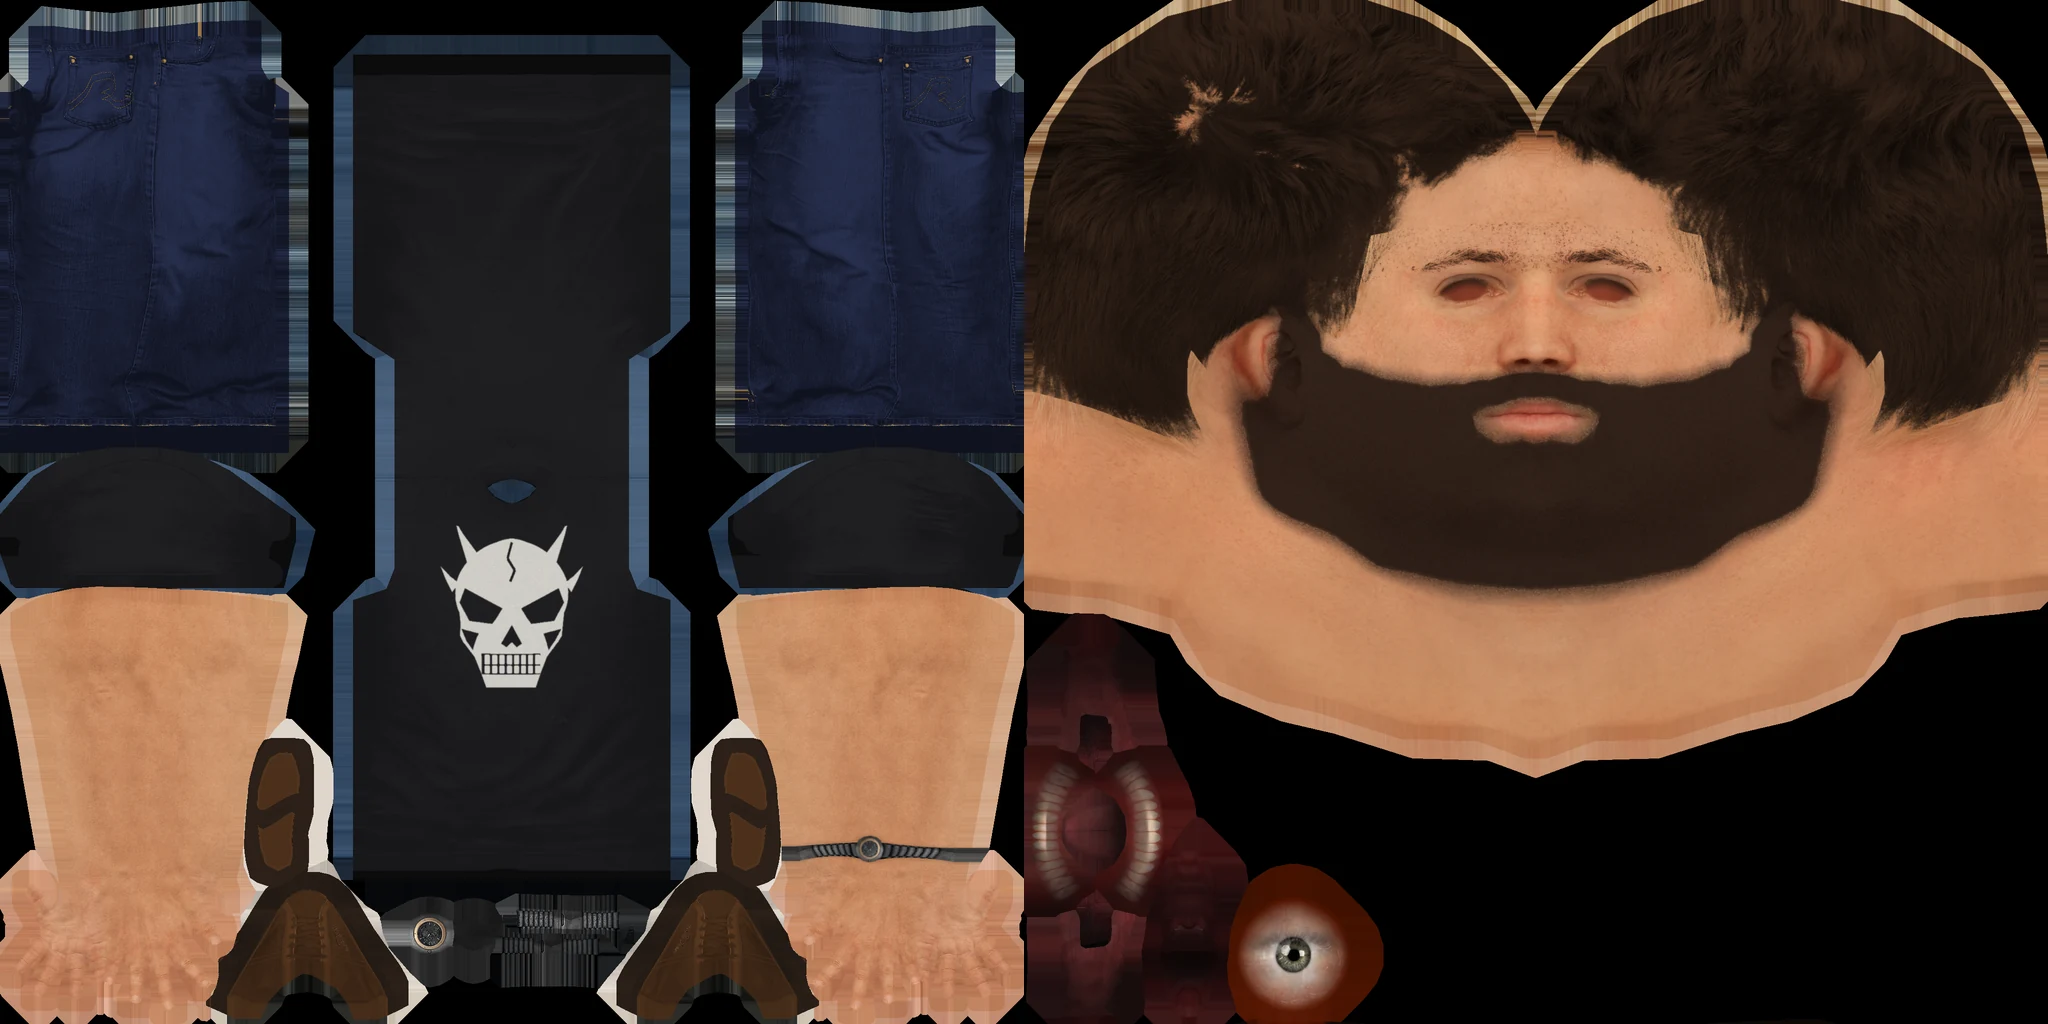
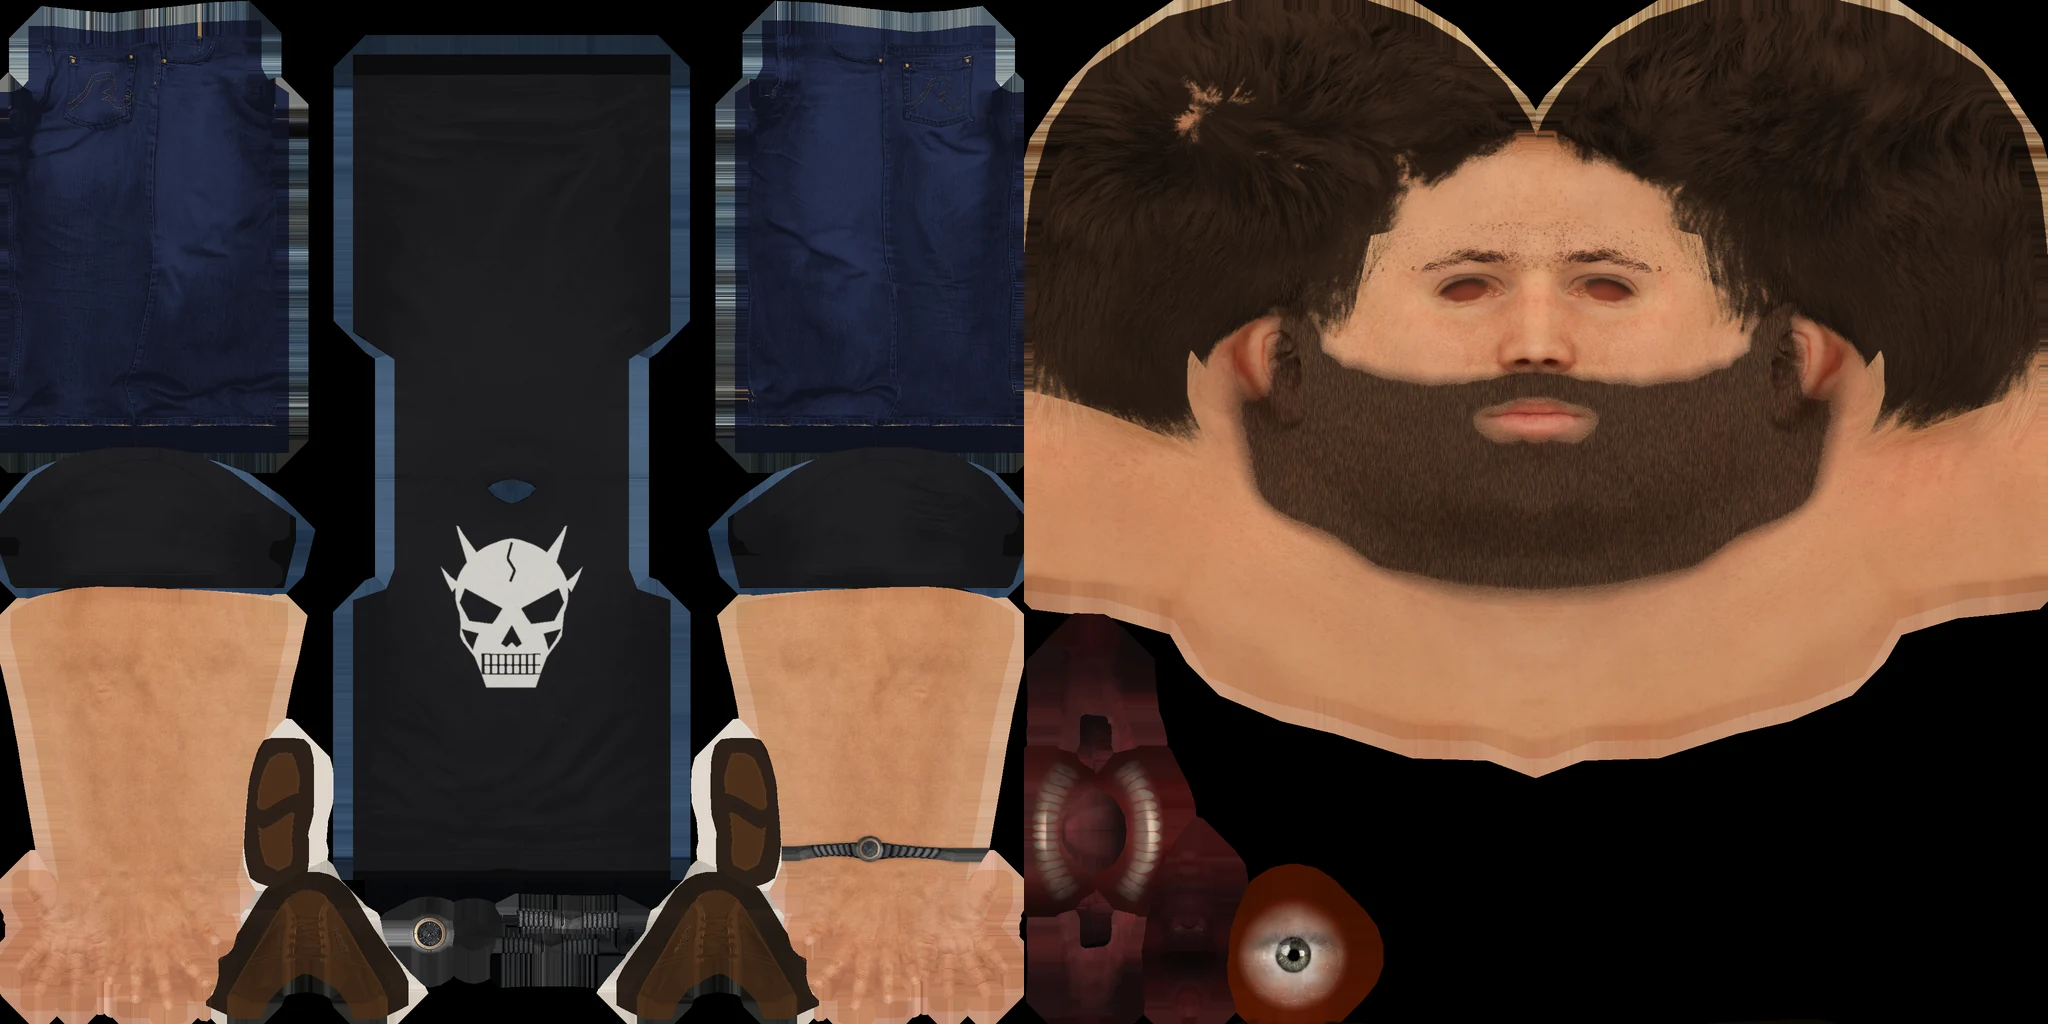
Player model: browner textured beard, docs, changelog fragment, backlog
Claude-Session: https://claude.ai/code/session_011Ud4TGFdPEACkdWERf8nUF

Changed region(s): [[0.5938, 0.3125, 0.9062, 0.5625]]

diff --git a/src/player-body3d.js b/src/player-body3d.js
@@ -1,9 +1,10 @@
-      // The player's own body: one skinned mesh (a man in his forties in a black tee, jeans and leather shoes) posed by
-      // the crowd rig's skeleton every frame, built from signed distance fields in slices behind the title.
+      // The player's own body: one skinned mesh posed by the crowd rig's skeleton every frame: the shipped model (a
+      // restyled Rocketbox avatar: skull tee, jeans, beard; player-body3d-asset.js), or the field-built fallback.
       /**
        * PLAYER BODY
        * The player is not drawn from the crowd's instanced parts but from a body of his own (one draw, one
-       * shadow draw): realistic adult proportions at the rig's joints (character-rig3d.js RIG), modelled as
+       * shadow draw). Normally that is the shipped model fitted to the rig's joints at load (player-body3d-asset.js,
+       * pbBodySteps); without it, the fallback: realistic adult proportions at the rig's joints (RIG), modelled as
        * signed distance fields and meshed by surface nets (player-body3d-mesher.js): the clothed body
        * (anatomy), the head with the face and the hair (head), hands and shoes (extremities). Each vertex
        * follows two of the rig's 15 bones as dual quaternions (shader), so the joints bend without gaps or

diff --git a/tools/player_model.py b/tools/player_model.py
@@ -617,12 +617,12 @@ def restyle_head(C, S, B, mesh):
     coarse = smooth(rng.random(L.shape).astype(np.float32), 3)
     dens = np.clip(beard_a * 1.25 + (coarse - 0.5) * 0.5, 0, 1)
     dens = np.where(dens < 0.85, dens * (0.55 + 0.45 * (fine > 0.45)), dens)
-    dens = smooth(dens.astype(np.float32), 0.7) * 0.92
+    dens = smooth(dens.astype(np.float32), 0.7) * 0.82
     out = C.copy()
     # Hair recoloured dark brown keeping its strands.
     hl = np.median(L[crown])
     strands = np.clip(L / max(hl, 0.05), 0.4, 1.8) ** 1.3
-    hair_col = np.array([0.15, 0.10, 0.07]) * strands[..., None]
+    hair_col = np.array([0.17, 0.115, 0.08]) * strands[..., None]
     skin_col = C * np.array([0.96, 0.88, 0.79])
     out = np.where(face[..., None], skin_col, C)
     out = out * (1 - hair[..., None]) + hair_col * hair[..., None]
@@ -630,7 +630,10 @@ def restyle_head(C, S, B, mesh):
     brow_band = face & (t < 0.6) & (y > eye[1] + 0.006) & (y < eye[1] + 0.03)
     brow = smooth((brow_band * sstep(0.0, 0.08, smooth(L, 6) - L)).astype(np.float32), 0.8)
     out = out * (1 - 0.8 * brow[..., None]) + np.array([0.12, 0.08, 0.06]) * 0.8 * brow[..., None]
-    beard_col = np.array([0.12, 0.08, 0.06]) * (0.6 + 0.5 * fine + 0.5 * np.clip(L / 0.6, 0.5, 1.2) - 0.25)[..., None]
+    # Short hairs: noise drawn out down the face (the texture's v), dark roots to brown tips.
+    hairs = sum(np.roll(fine, k, 0) for k in range(-5, 6)) / 11
+    hairs = np.clip((hairs - 0.5) * 3.2 + 0.5, 0, 1) ** 1.4
+    beard_col = (np.array([0.075, 0.05, 0.038]) * (1 - hairs[..., None]) + np.array([0.25, 0.165, 0.105]) * hairs[..., None]) * np.clip(L / 0.55, 0.7, 1.15)[..., None]
     out = out * (1 - dens[..., None]) + beard_col * dens[..., None]
     S[:] = S * (1 - 0.6 * np.maximum(dens, hair))
     return out

diff --git a/docs/areas/people-and-crowd-player.md b/docs/areas/people-and-crowd-player.md
@@ -6,39 +6,45 @@ player in a disguise (mission 2's suit), stays on the rig (people-and-crowd-rig.
 
 ## Who he is
 
-A handsome, athletic man in his forties, 1.80 m to the scalp (about 7.6 heads), the rig's joints at `PB_WIDTH`
-0.92: about 0.53 m across the deltoids, a defined chest and arms filling the sleeves, a flat stomach and a V to
-the waist; a strong jaw and chin, cheekbones, a straight nose, neat short brown hair with a slightly receded M
-and a little grey over the ears, light stubble, a few fine lines, hazel eyes; a plain black crew-neck tee,
-mid-wash straight jeans breaking over dark brown leather derbies. `outfitLook(p, 'player')` (crowd3d-looks.js)
-carries the same colours and width (`widthAbsolute`) for the crowd sets (the disguise, the 2D fallback).
+A muscular man in his thirties, 1.81 m to the crown, after the owner's reference: short dark-brown hair, a trimmed
+dark beard, a black tee with a white skull on the chest, dark indigo jeans, brown shoes, lightly tanned skin. He is
+the Microsoft Rocketbox avatar Male_Adult_16 (MIT, docs/THIRD_PARTY_CREDITS.txt), restyled. The rig's joints are at
+`PB_WIDTH` 1.04 (the model's shoulders); `outfitLook(p, 'player')` (crowd3d-looks.js) carries the same width
+(`widthAbsolute`) and the clothes' colours for the crowd sets (the disguise, the 2D fallback).
 
-## How it is built
+## The model (player-body3d-asset.js; preferred whenever the build carries it)
 
-- Signed distance fields in bind space (metres): the clothed body as layered groups (tee, collar, neck, arms,
-  jeans: `pbBodyField`), the head with the face and the hair as a thickness inside the hairline
-  (`pbHeadField`, `pbHairline`, `pbHairDepth`), a right hand and a right shoe (`pbHandField`, `pbShoeField`,
-  mirrored for the left), the eyeballs as spheres. Surface nets (`pbMeshSteps`) mesh each at its own spacing
-  (`PB_SPACINGS`: fine on HIGH/ULTRA, body 13 mm, head 3.2, hands 3.4, shoes 5.5, ~56k vertices; coarse on
-  LOW/MEDIUM, 17.5 / 5.2 / 4.8 / 7.5 mm, about half) and project the vertices onto the surface; normals
-  come from the field's gradient, occlusion is baked from it (`pbOcclusionSteps`).
-- The bind skeleton is the rig's own joints (`pbBindSkeleton`, RIG and the look's width) with the arms out in
-  an A pose (`PB_BIND_ARM` 0.7 rad: between hanging and raised, so neither stretches the armpit far). The
-  shoulder's cap follows the arm most of the way (the rig has no collarbone). Weights come from where a vertex is
-  along each limb, then
-  are spread over the surface (`pbSmoothWeights`) and cut to two bones; each vertex keeps its part (the bone
-  it mostly follows: head, torso, hips, upper/lower arms and legs, hands, feet: `pbSkin.w`) for anything that
-  must tell parts apart (wounds, a severed limb).
-- The paint never needs UVs: everything is placed in bind space. Per vertex `pbZone` holds the material
-  (body, head, eye, hand, shoe) and signed distances (how much nearer the tee's, the skin's or the jeans'
-  operations are, so the tee's hem and sleeves are crisp lines; inside the hairline; the nails; the sole).
-- About a second of work (2-3 s on the loaded cloud box), so `pbBuildSteps` is a generator run a few ms at a
-  time from the renderer's start (12 ms slices behind the title, 4 ms in play). If play starts first,
-  `playerBodyStart` (updateCrowd3D) finishes it at once on the first frame of play (`finishedAtStart`), so the
-  player is never seen in the crowd's body. A tier change across LOW/MEDIUM and HIGH/ULTRA rebuilds in slices
-  behind the old mesh. `playerModel(true)` finishes a build at once (tests). The material
-  is on the scene from the start on a placeholder triangle with every attribute, so the title prewarm compiles
-  the program and its shadow depth program; the finished buffers are uploaded off-screen (`uploadMeshes`).
+- tools/player_model.py (offline, numpy + PIL; its own binary FBX reader) converts the avatar: the mesh in its rest
+  pose (metres, x forward, y up, z right; 7,064 triangles), UVs into a two-page atlas (body left, head right), each
+  vertex's two strongest of the 15 bones (Biped bones mapped by name: spine and clavicles to the torso, neck and face
+  to the head, fingers to the hand), the hands' sub-bones (palm, three segments per finger and thumb) and the
+  asset's joint frames. Textures: `player-skin.webp` (colour) and `player-detail.webp` (normal x/y, specular),
+  1024 px pages. The restyle is painted in 3D: every texel's place on the body is baked from the mesh (`bake`), so the
+  skull is projected on the chest, the beard follows the jaw by its angle round the head, hair is told from skin by a
+  colour model fitted on the crown against the cheeks. Re-run it with the Rocketbox folder (see its docstring).
+- At load `pbAssetBuildSteps` fits it to `pbBindSkeleton` (the rig stays the one source of joints): the trunk by
+  one field of height (hip joint and shoulders onto the rig's, the head scaled `PB_ASSET_HEAD` round the neck so the
+  crown is at `PB_ASSET_CROWN`, the chest broadened and the waist taken in: `PB_ASSET_CHEST`/`PB_ASSET_WAIST`),
+  each limb rigidly onto its rig bone (frame: up the limb, the knuckle line forward) scaled along it to the rig's
+  length and round it by `PB_ASSET_ARMS`; the shoe keeps its height (the shin ends `lift` above the rig's ankle).
+- Hands: relaxed, gripping and trigger shapes come from the model's own finger segments turned to the field
+  hand's curls (`PB_CURL`, `PB_THUMB`), blended by its finger weights; the fist lands near `PB_FIST`, so
+  `PB_GRIPS` holds unchanged.
+- `pbZone` is (material, skin share, 0, 0) with the field codes (0 clothes, 1 head, 2 eye, 3 hand, 4 shoe), so the
+  tests and gore read it alike; `pbTextured` (on once the mesh and both images are in) switches the shader to the
+  atlases. A model that fails to decode logs an error and the fields are built instead (`pbBodySteps`).
+
+## The field body (fallback)
+
+- Signed distance fields in bind space (metres): the clothed body (`pbBodyField`), the head with hair as a
+  thickness (`pbHeadField`), a right hand and shoe mirrored, eyeballs. Surface nets (`pbMeshSteps`) mesh each at
+  `PB_SPACINGS` (fine on HIGH/ULTRA ~56k vertices, coarse about half); weights from where a vertex is along each
+  limb, spread over the surface (`pbSmoothWeights`), cut to two bones. Its paint (tee, denim, leather, face) needs no
+  UVs. About a second of work: `pbBuildSteps` runs as a generator in slices.
+- Both builds run behind the title (12 ms slices, 4 ms in play); `playerBodyStart` finishes one at once on the
+  first frame of play (`finishedAtStart`); a tier change across LOW/MEDIUM and HIGH/ULTRA rebuilds behind the old
+  mesh. The material is on the scene from the start on a placeholder with every attribute (the prewarm compiles
+  both programs); finished buffers are uploaded off-screen (`uploadMeshes`), the textures by `initTexture`.
 
 ## Posing it
 
@@ -48,7 +54,7 @@ carries the same colours and width (`widthAbsolute`) for the crowd sets (the dis
   other hand cups the firing hand on a pistol, holds the handguard from below on long guns, or a front grip.
   drawHold and the drive-by take these frames for the player (the IK reaches their wrists); a gun carried at
   the side sits in his fist (`inverse`). A new weapon adds its grip there.
-- Eyes (`pbEyes`, shader `pbEye`): they lead the head to where he aims (the chase camera's pitch in the chase
+- Eyes (`pbEyes`, shader `pbEye`; the field body only, the model's eyes are painted): they lead the head to where he aims (the chase camera's pitch in the chase
   view), else glance about in quick jumps; a blink every 2-6 s draws the upper lid down over the eyeball.
 
 - Gore (gore.js; police-and-combat-gore.md): `pbLost` (a bit per bone) folds a lost part's vertices (their part
@@ -69,23 +75,22 @@ carries the same colours and width (`widthAbsolute`) for the crowd sets (the dis
 
 ## Paint (player-body3d-shader.js)
 
-Skin wraps the light further in red (subsurface hint); cloth and hair reflect little (`pbSpec`, `pbSpecF90`)
-and cloth adds a Charlie sheen (black jersey reads as fabric); hair has two highlights along its strands. Face:
-warm cheeks, nose and ears, lash lines, brows, lips, stubble that greys the skin (dots up close, down the
-throat on the neck), forehead lines, crow's feet. Tee: knit, bunching above the hem, armpit folds, hem bands,
-the collar's rib. Jeans: twill, fades on the thighs and knees, whiskers, creases behind the knee, out- and
-inseams with tan stitching, back pockets, the hem stacked over the shoe. Shoes: grain, rubber sole, socks.
-Fine detail fades below a pixel (`pbPx`).
+The model: colour from the atlas (sRGB), its normal map in a frame from screen derivatives (no tangents), specular
+from the detail page; skin (head and hands, hair left out by its darkness) takes the red wrap, cloth the sheen, hair a
+soft strand highlight. The field body: skin with a subsurface wrap, face, stubble, tee knit, denim, leather, all from
+bind-space position, fine detail fading below a pixel (`pbPx`). Wounds soak either the same way (`pbWound`).
 
 ## Checks and console
 
-- tools/tests/player-body.mjs builds it in node: proportions (stature, heads tall, shoulders, chest, reach),
+- tools/tests/player-body.mjs builds both bodies in node (the model and the fields): proportions (stature, heads tall, shoulders, chest, reach),
   bones and parts, a closed outward mesh, and a pose set (walk, run, aim, rifle, hands up, phone, seated,
   kneel, crawl, freefall, swim, lying, carjack, twists, wrists) through the shader's skinning: no tearing
-  stretch, no collapse, no folding in a twist, no gap at the neck, wrists or ankles. On a rendered page it
+  stretch, no collapse, no folding a twist adds, no gap at the neck, wrists or ankles (the fields) or between the
+  model's welded vertices (split by UVs only). On a rendered page it
   checks the player is drawn from it in both views.
-- Console `playerModel(finish)`: ready, build and work ms, vertices, triangles, vertices by part, whether it
-  drew this frame; `crowdStats().playerBody`.
-- Cost: one camera and one shadow draw; HIGH/ULTRA ~56k vertices / 112k triangles, LOW/MEDIUM about half; the
-  near set's player slot is freed. `playerModel().programsAtFirstDraw` says whether the prewarm had compiled both
+- Console `playerModel(finish)`: ready, build and work ms, `model` (the asset's name or 'fields'), `textured`,
+  vertices, triangles, vertices by part, whether it drew this frame; `crowdStats().playerBody`.
+- Cost: one camera and one shadow draw; the model 4.2k vertices / 7k triangles on every tier plus two 2048x1024
+  textures (the fields: HIGH/ULTRA ~56k vertices / 112k triangles, LOW/MEDIUM about half); the near set's player
+  slot is freed. `playerModel().programsAtFirstDraw` says whether the prewarm had compiled both
   programs before he was first drawn.

diff --git a/docs/FILEMAP.md b/docs/FILEMAP.md
@@ -11,7 +11,7 @@ tree from src/main.js; a file that is itself an include list has its own section
 included before code that runs at load time and reads it). The CSS/HTML fragments
 src/shell.html includes (src/ui/) have their own section after the scripts.
 
-568 files in the include tree, 196,026 lines.
+568 files in the include tree, 196,027 lines.
 
 ## src/main.js ▸ Entry point: Everything the game is lives inside this one function, spliced together by tools/build.py from the @include directives in src/game.js.
 
@@ -477,7 +477,7 @@ src/shell.html includes (src/ui/) have their own section after the scripts.
 - `src/weather3d.js`   788 — ▸ Weather and sky visuals
 - `src/character-rig3d.js`   738 — ▸ Character rig: sculpted body parts, outfits and paint
 - `src/crowd3d.js`    88 — ▸ Instanced people: skeleton, gait, poses, weapons and street props
-- `src/player-body3d.js`   439 — ▸ The player's own body: one skinned mesh (a man in his forties in a black tee, jeans and leather shoes) posed by the crowd rig's skeleton every frame …
+- `src/player-body3d.js`   440 — ▸ The player's own body: one skinned mesh posed by the crowd rig's skeleton every frame: the shipped model (a restyled Rocketbox avatar: skull tee …
 - `src/carjack3d.js`   212 — The carjack struggle drawn: the driver's door swinging, the poses of the tug of war and the player's hands on the driver (swingDriverDoor …
 - `src/clouds3d.js`    56 — ▸ Volumetric clouds and cloud shadows
 - `src/ground-data3d.js`   826 — Ground shader data
@@ -733,7 +733,7 @@ src/shell.html includes (src/ui/) have their own section after the scripts.
 - `src/crowd3d-driveby.js`   373 — Crowd 3D drive-by pose: the player at the wheel with the gun arm out of the window, torso and head turned to the aim, recoil per shot …
 - `src/crowd3d-frame.js`   385 — updateCrowd3D(): per-frame packing, car enter and exit transitions, dogs, crowd stats.
 
-## src/player-body3d.js ▸ The player's own body: one skinned mesh (a man in his forties in a black tee, jeans and leather shoes) posed by the crowd rig's skeleton every frame …
+## src/player-body3d.js ▸ The player's own body: one skinned mesh posed by the crowd rig's skeleton every frame: the shipped model (a restyled Rocketbox avatar: skull tee …
 
 - `src/player-body3d-mesher.js`   423 — Player body: signed distance primitives, a field of ordered operations culled per cell, and the surface-nets mesher that turns a field into a smooth …
 - `src/player-body3d-anatomy.js`   269 — Player body anatomy: the bind skeleton (the rig's joints, arms out in an A pose) and the body's field: torso in a black crew-neck tee, neck, arms …

diff --git a/docs/BACKLOG.md b/docs/BACKLOG.md
@@ -187,10 +187,13 @@ here when polishing; delete a line when it is fixed. Newest features first.
 
 ## The player's body (player-body3d*.js; docs/areas/people-and-crowd-player.md)
 
-- The build is ~1 s of work on a desktop (2-3 s on the cloud box), sliced behind the title; a player who presses
-  play at once waits for the rest on that first frame. Caching the arrays (IndexedDB) or a worker would remove it.
-- Hands straight up (surrender) still bulge the tee's sides under the arms (no collarbone or corrective shapes).
-- The face is sculpted from primitives: no expressions; the eyes move and blink but the lids do not follow them.
+- The shipped model (Rocketbox Male_Adult_16, restyled): trainers recoloured brown, not the reference's tall work
+  boots (no boot geometry); the beard and hair are paint (no strands or cards), the beard's cheek line is a little
+  even; the model's eyes neither follow the aim nor blink (its eye and lid bones are not mapped); the wristwatch on
+  his left wrist is the asset's. The texture pages are 1024 px (2048 sources): the face is soft in a close chase view.
+- Low-poly (7k triangles): elbows and the shoulders' silhouette facet up close; the armpits fold with the arms down
+  (the A pose bind); no collarbone, so raised arms pull the tee's shoulders.
+- The field body (fallback only) is now built at PB_WIDTH 1.04 (broader than it was modelled for).
 
 ## Mountain island (mountain-village*.js, mountain-club3d.js)
 - Northridge metal roofs (rescue barn, general store) were lightened but not re-shot.

diff --git a/docs/changes/2026-10-08-player-model.md b/docs/changes/2026-10-08-player-model.md
@@ -1,0 +1,13 @@
+# The player model
+
+- The player is now a ready-made, photo-textured character: the Microsoft Rocketbox avatar Male_Adult_16 (MIT),
+  restyled towards the owner's reference: a black tee with a white skull on the chest, dark indigo jeans, brown
+  shoes, dark brown hair, a trimmed dark beard, lightly tanned skin, a broader chest, narrower waist and heavier arms.
+- He is still posed by the rig's 15 bones (walk, aim, seats, ragdoll poses), grips weapons with his own fingers
+  (relaxed, gripping and trigger hand shapes made from the model's finger bones), takes wounds and loses limbs as
+  before; one draw and one shadow draw, about 7k triangles (the field body had 112k).
+- tools/player_model.py converts the FBX (its own binary FBX reader) into assets/player-model.bin and two texture
+  atlases (assets/player-skin.webp, assets/player-detail.webp: normal map and specular), 0.5 MB in all; the fit to the
+  bind skeleton happens at load (player-body3d-asset.js). The field body stays as the fallback.
+- PB_WIDTH and the player look's widthAbsolute are 1.04 (the model's shoulders); the crowd-set colours of the player
+  follow the new clothes. Console `playerModel()` reports `model` and `textured`.
